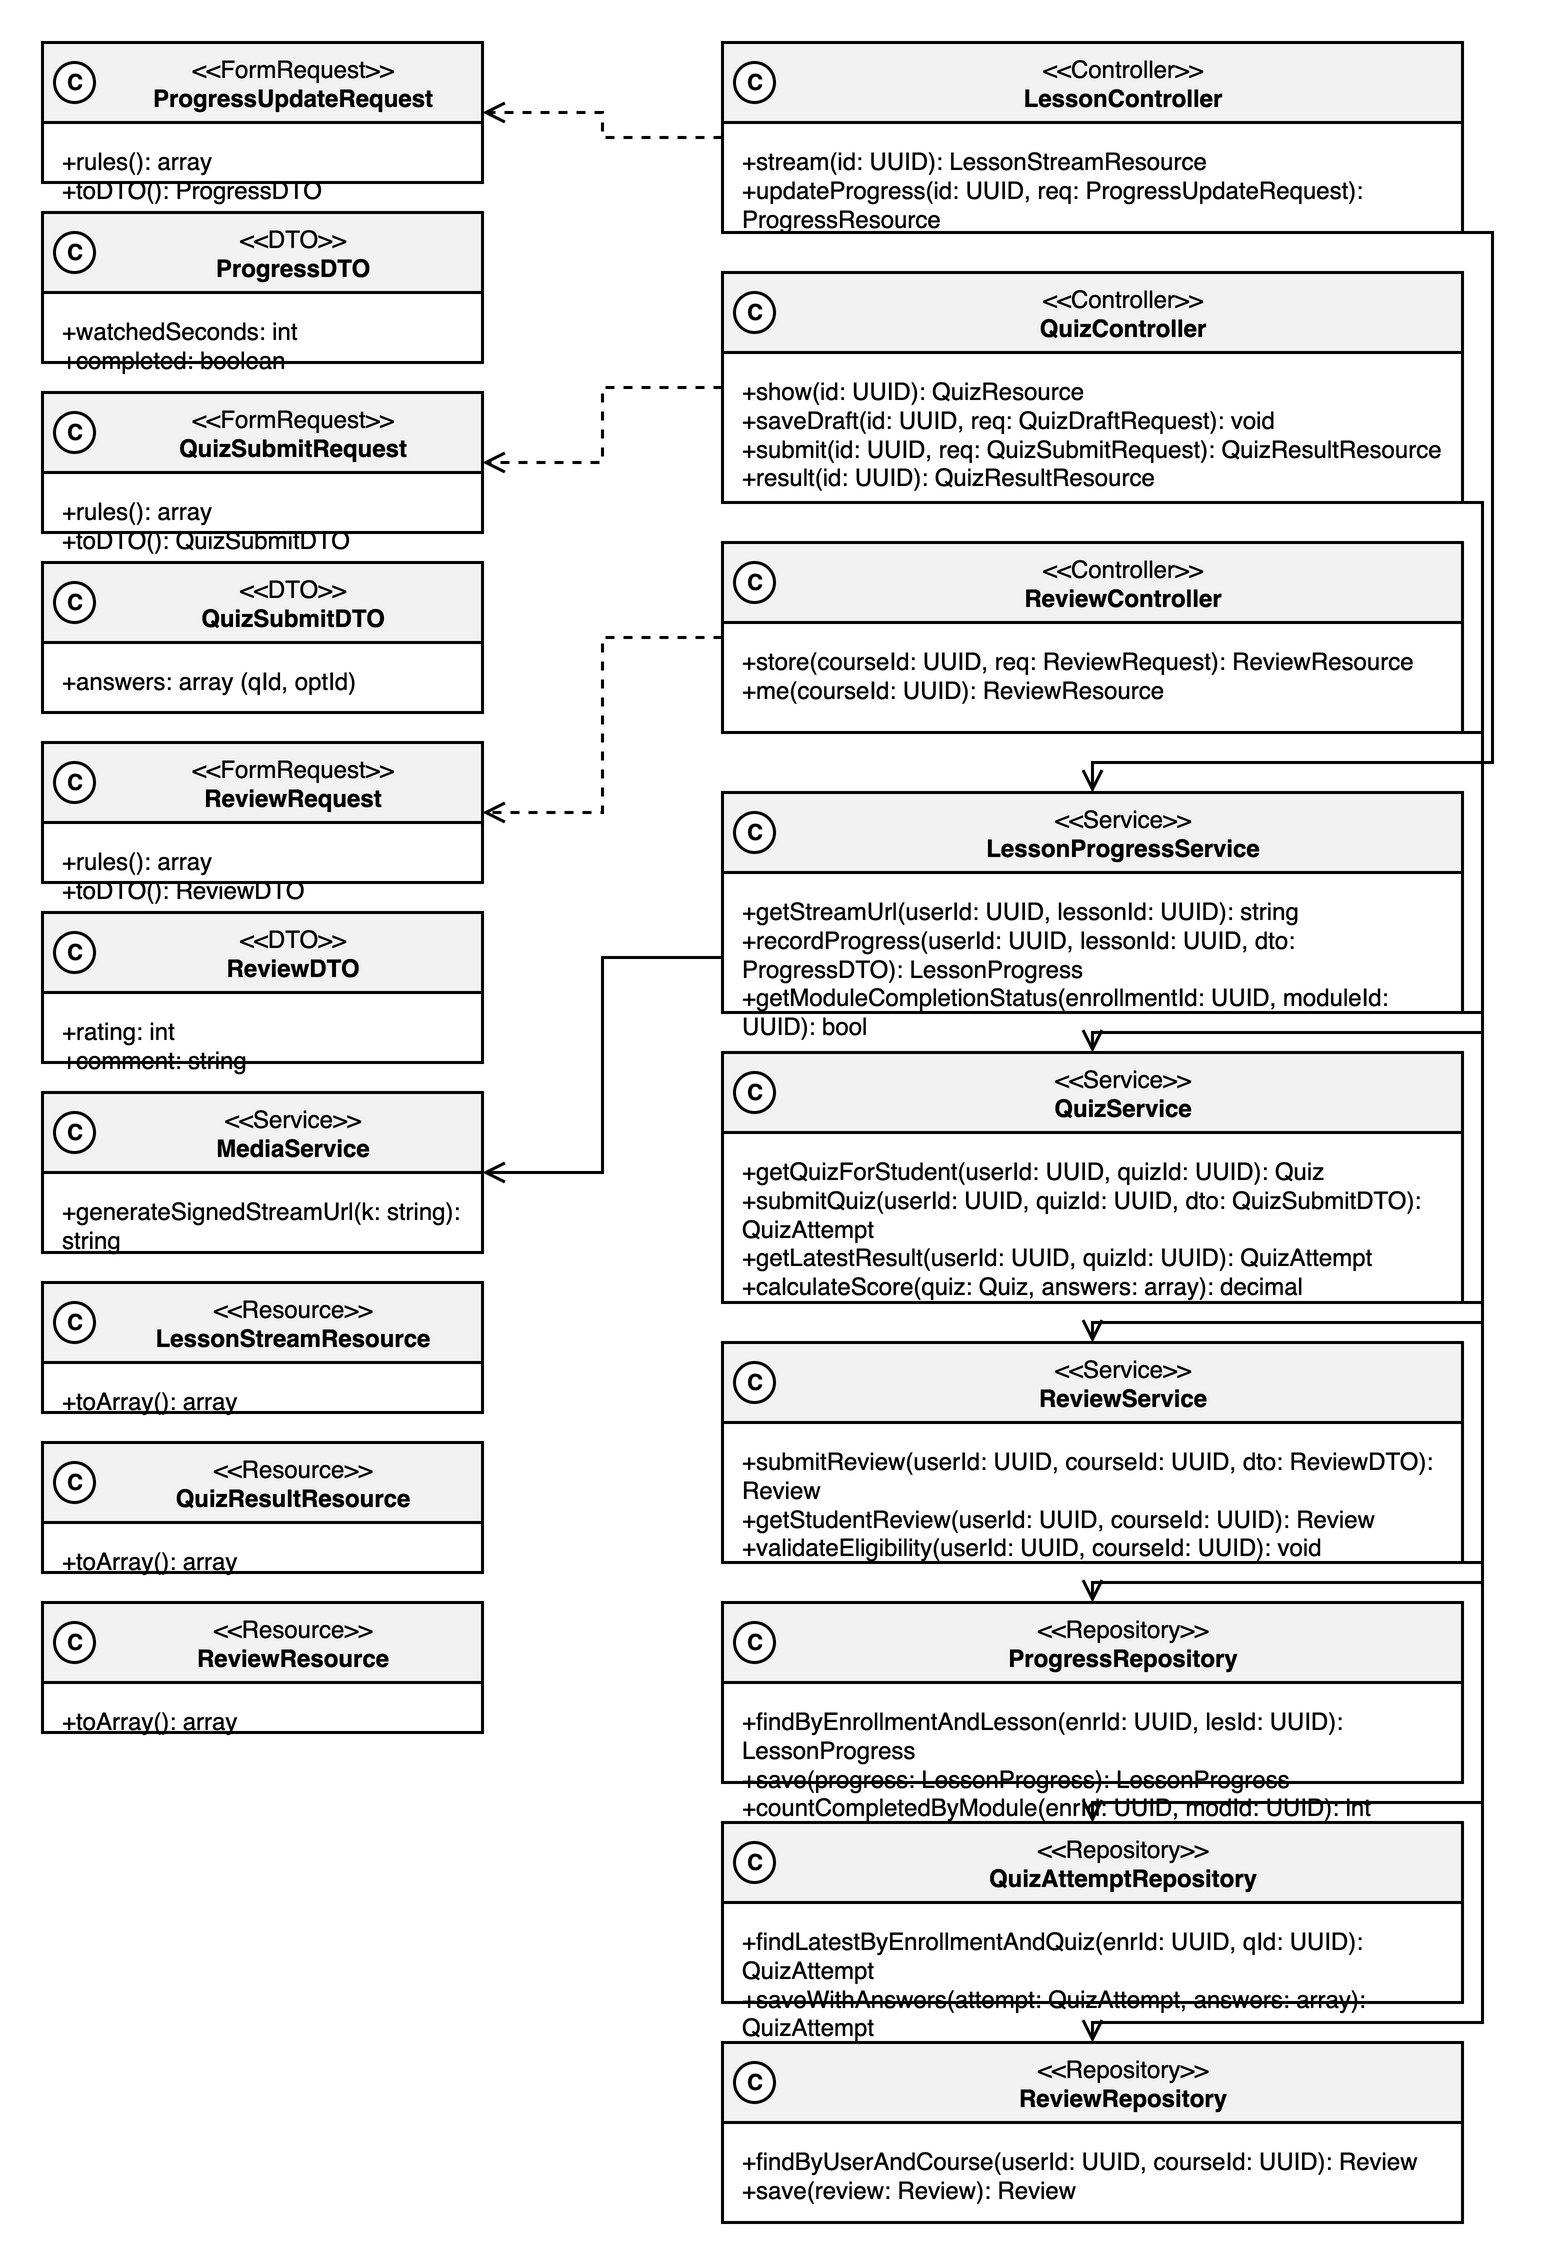
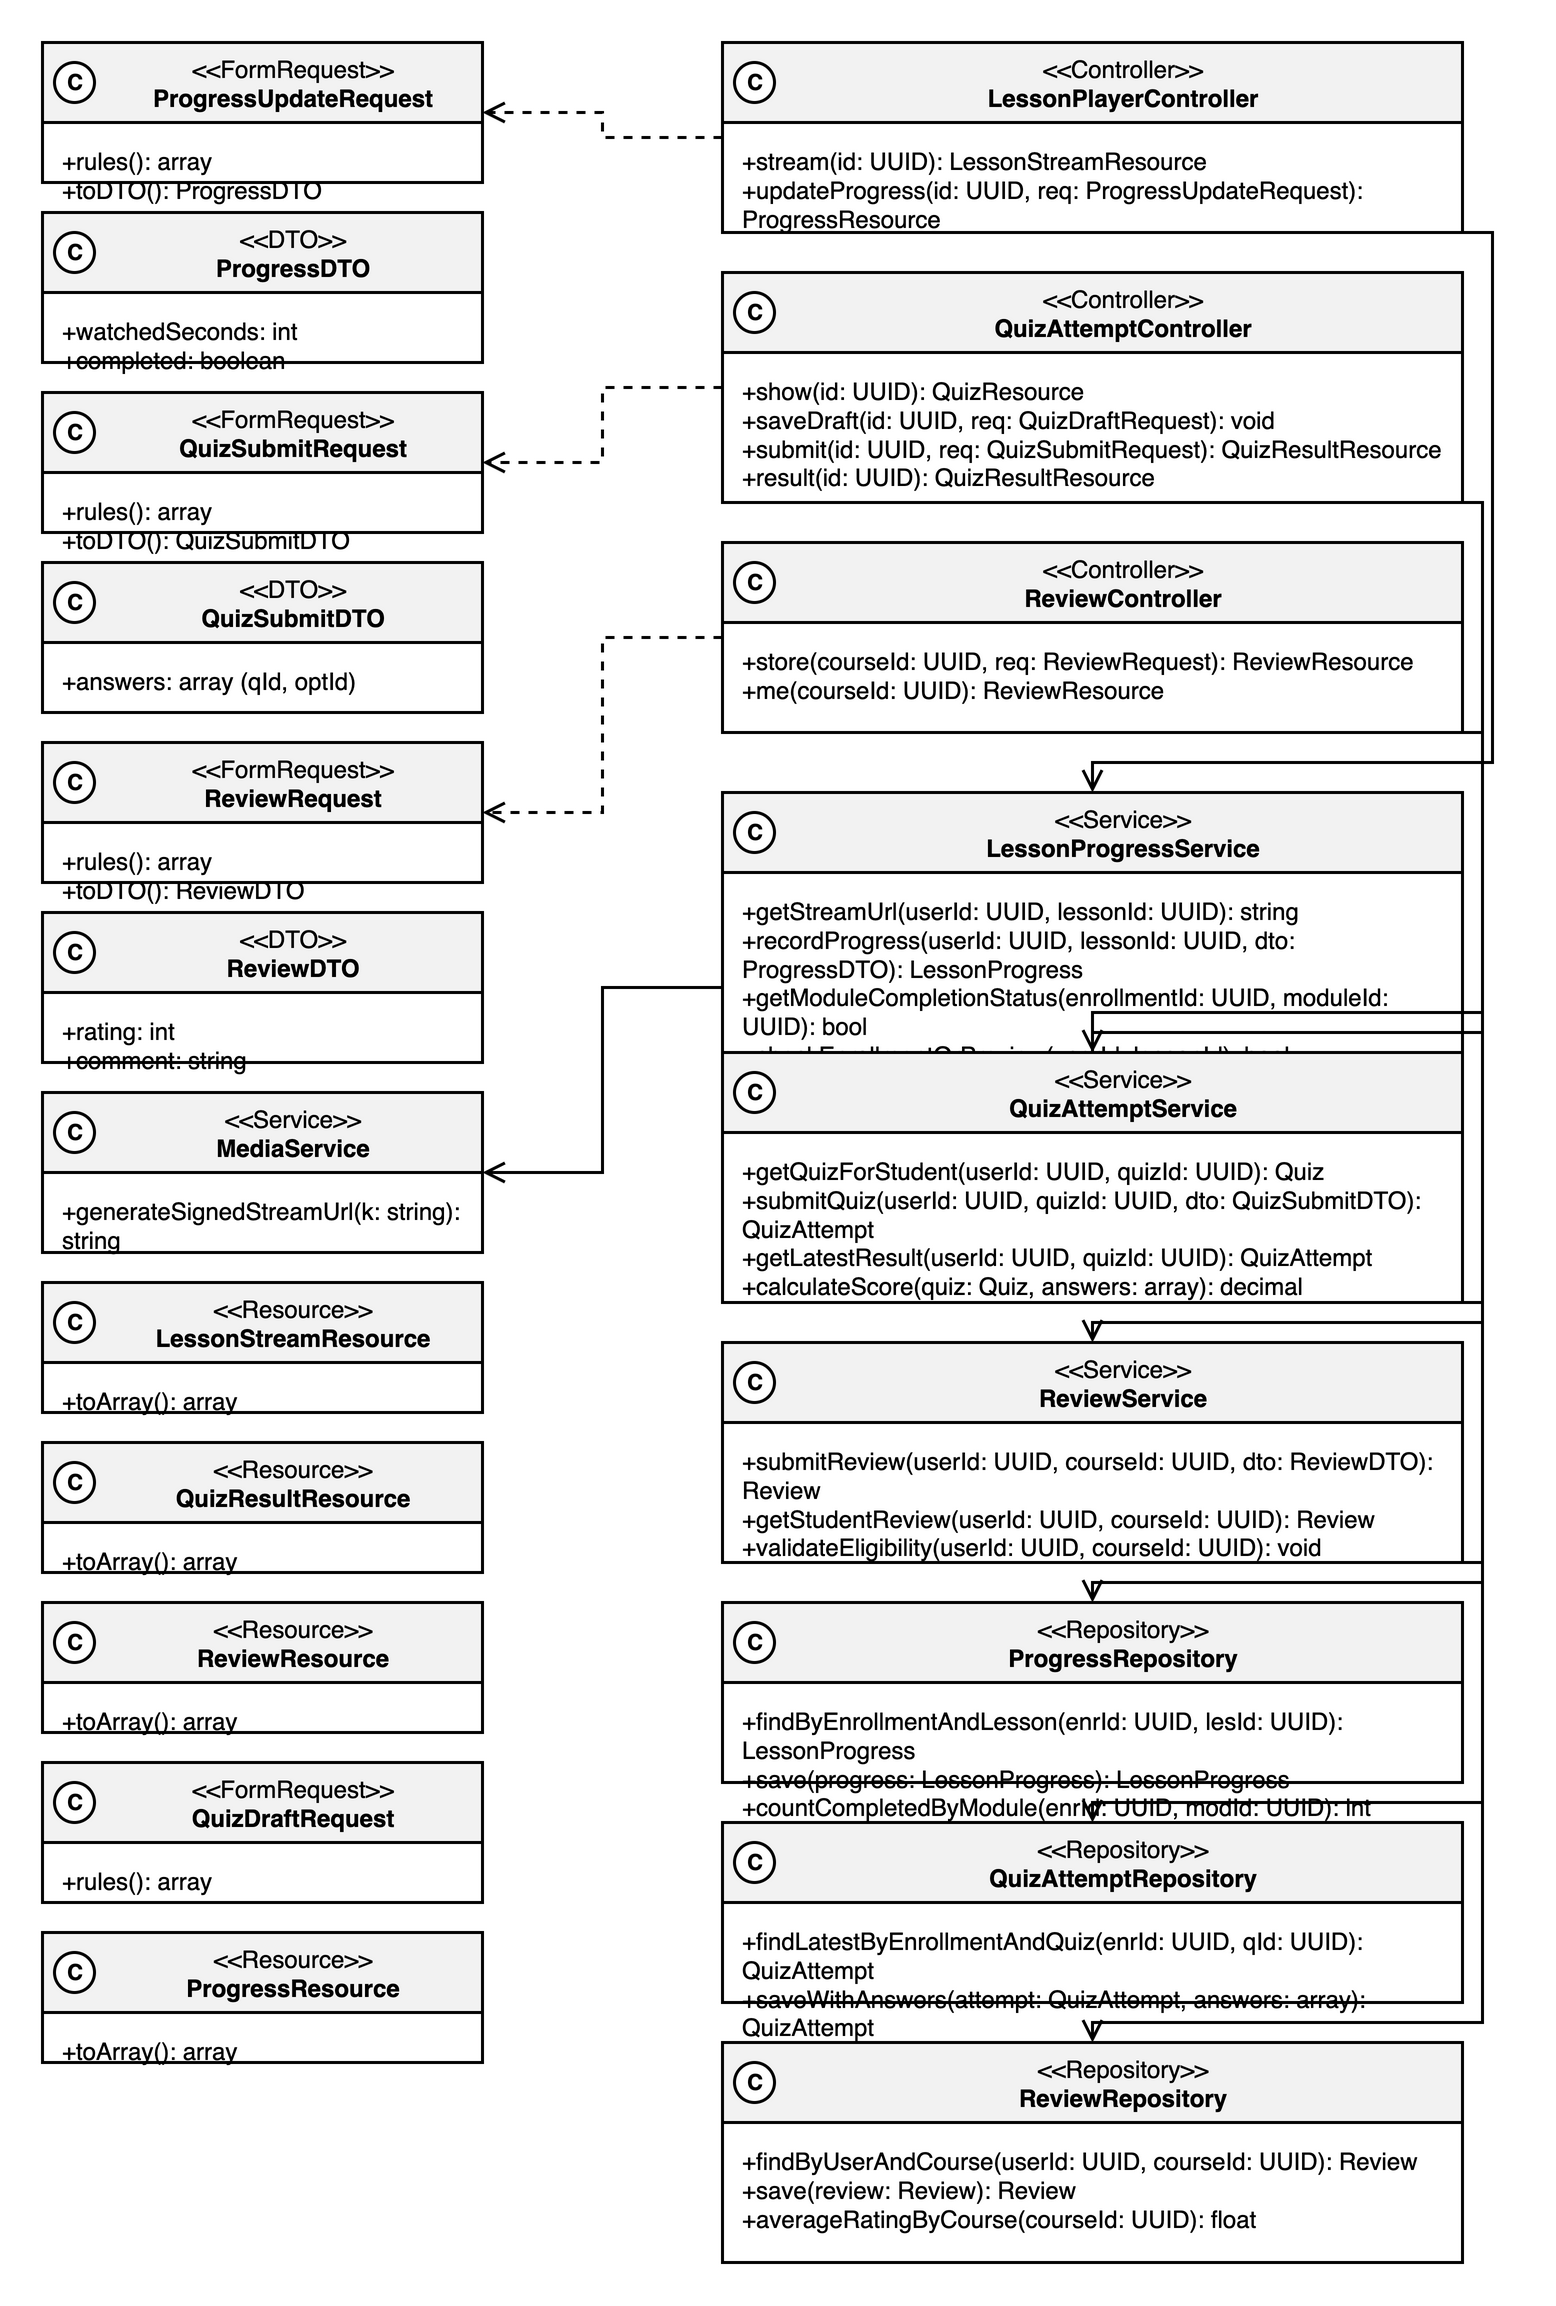
fix(diagrama-de-classes): align Area C class diagrams with sequences and model
The cross review found that the Area C class diagrams disagreed with the
data model and with the sequence diagrams. Payment was 0..1 per
Enrollment, while the data model and UC019 allow 0..* attempts. QuizAnswer
carried questionId and optionId as UUID attributes, which contradicts the
TE5_1 rule stated in the same document and the FKs drawn in item 12.
Several messages in item 14 called methods that were not declared here
(checkStatus, checkEnrollmentOrPreview, averageRatingByCourse,
getModuleCompletionStatus), and the diagrams used names that differ from
the sequences (LessonController, QuizController, QuizService). Classes
returned by controllers (CourseDetailResource, ProgressResource) and
the request used by saveDraft (QuizDraftRequest) were missing.

Question and QuestionOption are drawn as [Area B] classes with
associations, QuizAttemptStatus is an enum, and the names now match the
sequences. The document text describes the same associations.

Refs #135

Changed region(s): [[0.4627, 0.0309, 0.9563, 0.9885], [0.0308, 0.0309, 0.3393, 0.8959]]

diff --git a/especificacao/13-diagrama-de-classes/area-c.md b/especificacao/13-diagrama-de-classes/area-c.md
@@ -2,11 +2,11 @@
 
 Classes dos casos de uso UC002, UC003, UC009, UC010, UC019 e UC020 (RF005, RF006, RF008, RF011, RF014 e RF015), estruturadas sob duas perspectivas complementares do mesmo modelo: negocial e de implementação técnica (MVC / arquitetura em camadas).
 
-Na perspectiva negocial, o ator `Student` herda da classe abstrata `User` (Área A). As classes do domínio central modelam diretamente o vínculo do aluno com os cursos: `Enrollment` representa a matrícula em `Course` (Área B) com status tipado em `EnrollmentStatus` (`pending`, `active`, `cancelled`, `completed`); `Payment` representa a transação simulada (decisão #51) com status `PaymentStatus` (`approved`, `declined`), associada univocamente à respectiva matrícula; `LessonProgress` é composto por `Enrollment` e referencia a aula (`Lesson`, Área B), registrando segundos assistidos e estado de conclusão de modo desacoplado do quiz; `QuizAttempt` e suas respostas `QuizAnswer` registram o histórico de resolução de quizzes (`Quiz`, Área B) com cálculo automatizado de pontuação (`score`); e `Review` formaliza a avaliação com nota (1 a 5) e comentário do aluno sobre o curso, com restrição de unicidade para que reenvios substituam a avaliação anterior (UC010 R-2). Nenhuma classe utiliza atributos para representar IDs de chaves estrangeiras, modelando diretamente as associações tipadas e composições conforme as regras do TE5_1. Identificadores e assinaturas de métodos seguem o padrão em inglês adotado pelo projeto.
+Na perspectiva negocial, o ator `Student` herda da classe abstrata `User` (Área A). As classes do domínio central modelam diretamente o vínculo do aluno com os cursos: `Enrollment` representa a matrícula em `Course` (Área B) com status tipado em `EnrollmentStatus` (`pending`, `active`, `cancelled`, `completed`); `Payment` representa a transação simulada (decisão #51) com status `PaymentStatus` (`approved`, `declined`), associada a uma matrícula; uma `Enrollment` tem 0..* `Payment` (tentativas recusadas e aprovadas ficam registradas); `LessonProgress` é composto por `Enrollment` e referencia a aula (`Lesson`, Área B), registrando segundos assistidos e estado de conclusão de modo desacoplado do quiz; `QuizAttempt` e suas respostas `QuizAnswer` registram o histórico de resolução de quizzes (`Quiz`, Área B), com status `QuizAttemptStatus` (`draft`, `submitted`) e pontuação (`score`) calculada na correção, nula enquanto a tentativa está em rascunho; cada `QuizAnswer` referencia uma `Question` e uma `QuestionOption` (Área B) por associação tipada; e `Review` formaliza a avaliação com nota (1 a 5) e comentário do aluno sobre o curso, com restrição de unicidade para que reenvios substituam a avaliação anterior (UC010 R-2). Nenhuma classe mantém atributos de chave estrangeira (`*Id`): as referências são associações tipadas e composições, conforme as regras do TE5_1, e apenas o identificador `id` aparece como atributo. Identificadores e assinaturas de métodos seguem o padrão em inglês adotado pelo projeto.
 
 Na perspectiva de implementação técnica, dividida em dois diagramas para assegurar legibilidade na página:
-1. **Catálogo, matrícula e pagamento simulado:** `CatalogController`, `EnrollmentController` e `PaymentController` recebem as requisições HTTP validadas pelos respectivos Form Requests (`CatalogFilterRequest`, `PaymentSimulatedRequest`), que as transformam em DTOs tipados (`CatalogFilterDTO`, `PaymentDTO`). Os controladores delegam o processamento a `CatalogService`, `EnrollmentService` e `PaymentService`. No fluxo de matrícula paga (UC003, UC019 e US018), `EnrollmentService.enroll()` cria a entidade `Enrollment` com status `pending`; ao confirmar a transação simulada, `PaymentService.processSimulatedPayment()` valida o preço e a disponibilidade do curso, registra a entidade `Payment` e invoca `EnrollmentService.activateEnrollment()`, promovendo a transição de estado da matrícula de `pending` para `active`. As respostas são envelopadas e formatadas via API Resources (`EnrollmentResource`, `PaymentResource`, `CourseCatalogResource`).
-2. **Aulas, quizzes e avaliações:** `LessonController`, `QuizController` e `ReviewController` processam requisições validadas por `ProgressUpdateRequest`, `QuizSubmitRequest` e `ReviewRequest`, repassando DTOs a `LessonProgressService`, `QuizService` e `ReviewService`. `LessonProgressService` interage com `MediaService` para emitir URLs assinadas temporárias de 15 minutos no Cloudflare R2 (RNF002) para reprodução protegida das videoaulas. `QuizService` efetua a correção automática imediata das questões contra o gabarito cadastrado na autoria e persiste a tentativa via `QuizAttemptRepository`. `ReviewService` valida a pré-condição de ao menos uma aula concluída antes de registrar ou substituir a avaliação em `ReviewRepository`.
+1. **Catálogo, matrícula e pagamento simulado:** `CatalogController`, `EnrollmentController` e `PaymentController` recebem as requisições HTTP validadas pelos respectivos Form Requests (`CatalogFilterRequest`, `PaymentSimulatedRequest`), que as transformam em DTOs tipados (`CatalogFilterDTO`, `PaymentDTO`). Os controladores delegam o processamento a `CatalogService`, `EnrollmentService` e `PaymentService`. No fluxo de matrícula paga (UC003, UC019 e US018), `EnrollmentController.checkStatus()` informa ao aluno o status atual da matrícula antes de nova tentativa (UC003 E1); `EnrollmentService.enroll()` cria a entidade `Enrollment` com status `pending` (curso pago) ou `active` (curso gratuito); ao confirmar a transação simulada, `PaymentService.processSimulatedPayment()` valida o preço e a disponibilidade do curso, registra a entidade `Payment` e invoca `EnrollmentService.activateEnrollment()`, promovendo a transição de estado da matrícula de `pending` para `active`. `PaymentRepository.findByEnrollmentId()` retorna a coleção de pagamentos da matrícula. As respostas são envelopadas e formatadas via API Resources (`EnrollmentResource`, `PaymentResource`, `CourseCatalogResource` na listagem e `CourseDetailResource` no detalhe do curso, UC020).
+2. **Aulas, quizzes e avaliações:** `LessonPlayerController`, `QuizAttemptController` e `ReviewController` processam requisições validadas por `ProgressUpdateRequest`, `QuizDraftRequest`, `QuizSubmitRequest` e `ReviewRequest`, repassando DTOs a `LessonProgressService`, `QuizAttemptService` e `ReviewService`. O retorno de `updateProgress` é `ProgressResource`. `LessonProgressService` interage com `MediaService` para emitir URLs assinadas temporárias de 15 minutos no Cloudflare R2 (RNF002) para reprodução protegida das videoaulas. `QuizAttemptService` efetua a correção automática imediata das questões contra o gabarito cadastrado na autoria e persiste a tentativa via `QuizAttemptRepository`. `LessonProgressService.checkEnrollmentOrPreview()` decide o acesso à aula (matrícula ou aula de prévia, UC009 E1). `ReviewRepository.averageRatingByCourse()` recalcula a média de notas após cada avaliação (UC010). `ReviewService` valida a pré-condição de ao menos uma aula concluída antes de registrar ou substituir a avaliação em `ReviewRepository`.
 
 ![Classes negociais da Área C](../diagramas/13-classes-area-c-negocial.png)
 
